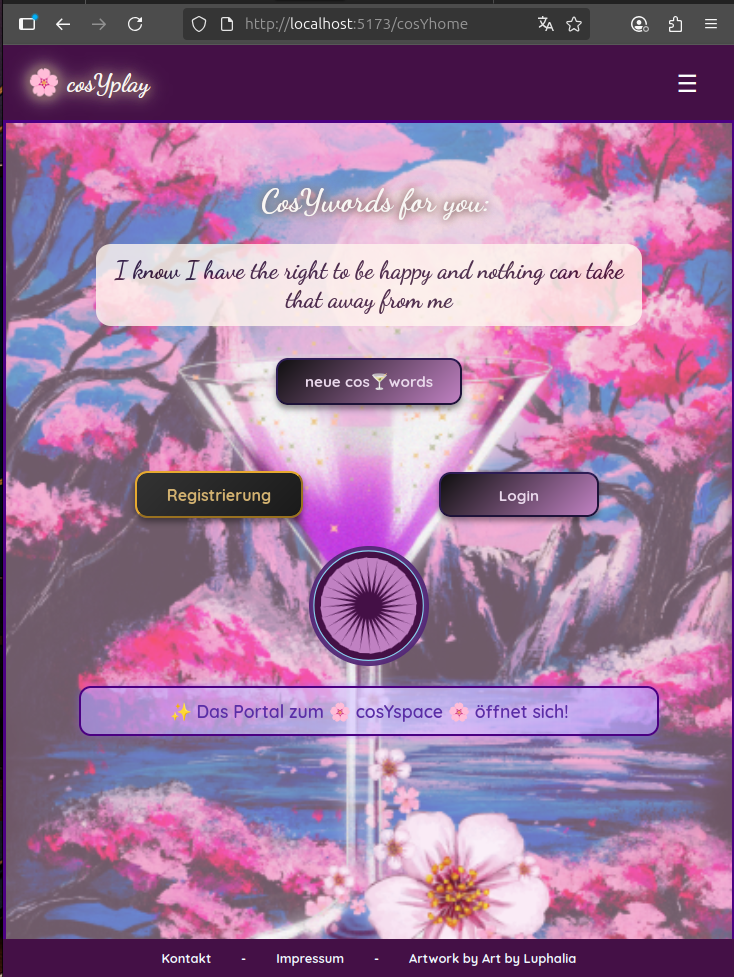
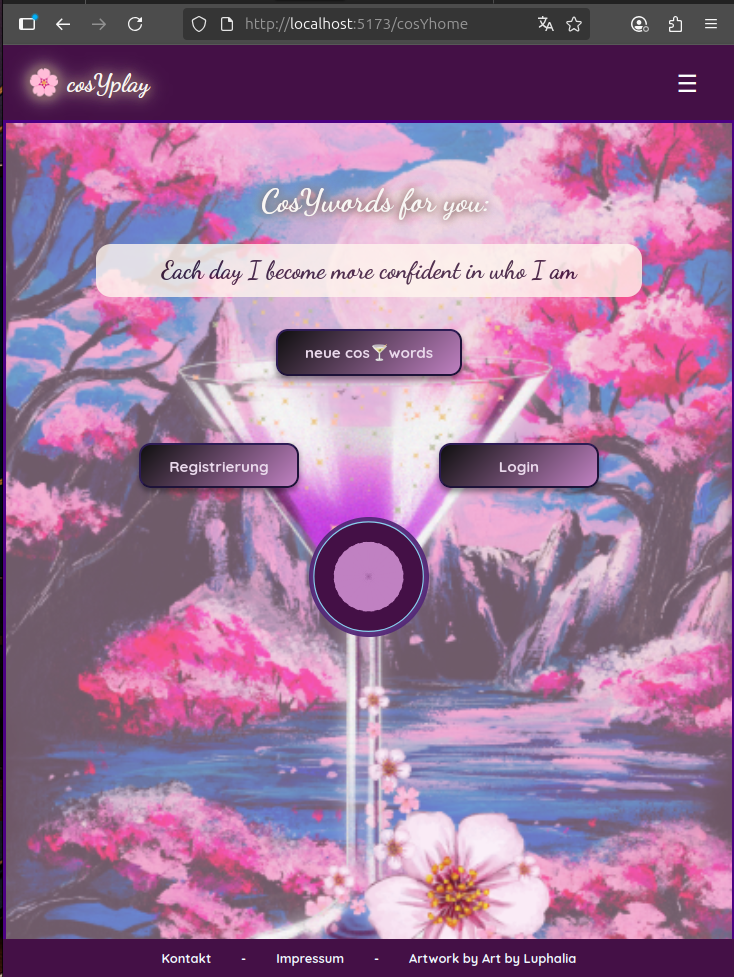
neue Bilder & deployments

Changed region(s): [[0.1199, 0.2456, 0.8992, 0.5527], [0.0899, 0.522, 0.8992, 0.7677]]

diff --git a/portfolio.md b/portfolio.md
@@ -3,6 +3,11 @@
 <p align="left">← <a href="./README.md">Back to main README</a></p>
 
 ---
+<img src="assets/Elegantes Home Office mit Goldakzenten.png" alt="ML Dev Lab Home Office">
+
+### 🪄 A glimpse into the Digital Alchemist's Lab; see what's brewing ✨
+
+---
 
 ### 🆕 **cosYplay 🌸**
 #### Fullstack monolithic SPA with micro-apps
@@ -29,25 +34,25 @@
   </thead>
   <tbody>
     <tr>
-      <td>
-        <img 
-          src="assets/cosYhome.png" 
-          width="400" 
-          alt="cosYhome Screenshot"
-        >
-      </td>
-      <td>
-        <img 
+<td>
+  <img 
+    src="assets/cosYhome.png" 
+    alt="cosYhome Screenshot"
+    style="width: 400px; height: auto; box-sizing: content-box; border: 4px solid indigo; border-radius: 8px;"
+  >
+</td>
+    <td>
+      <img 
           src="assets/cosYspace.png" 
-          width="400" 
-          alt="cosYspace Screenshot"
+            alt="cosYspace Screenshot"
+            style="width: 400px; height: auto; object-fit: cover; border-radius: 8px;"
         >
         </td>
     </tr>
   </tbody>
 </table>
 <hr>
-<details open>
+<details>
 <summary>2 social apps - cosYchat & cosYpost</summary>
 <br>
 
@@ -63,14 +68,14 @@
       <td>
         <img 
           src="assets/cosYchat.png" 
-          width="400" 
+          style="width: 400px; height: auto; object-fit: cover; border-radius: 8px;"          
           alt="cosYchat Screenshot"
         >
       </td>
       <td>
         <img 
           src="assets/cosYpost.png" 
-          width="400" 
+          style="width: 400px; height: auto; object-fit: cover; border-radius: 8px;"          
           alt="cosYpost Screenshot"
         >
         </td>
@@ -129,30 +134,30 @@ These projects include both **frontend** & **backend** logic; involving authenti
 
 ### 🗃 **File Upload Systems**
 
-<details>
-<summary>📂 BewerbungsArchiv v4 + v3 – File Upload System (<em>Backend‑first</em>)</summary>
+<details open>
+<summary>📂 BewerbungsArchiv – File Upload System (<em>Backend‑first</em>)</summary>
 <br>
 
 <table>
   <thead>
     <tr>
-      <th>BewerbungsArchiv v4</th>
-      <th>BewerbungsArchiv v3</th>
+      <th>BewerbungsArchiv (elaborated version)</th>
+      <th>BewerbungsArchiv (basic version)</th>
     </tr>
   </thead>
   <tbody>
     <tr>
       <td>
-        <img src="v4.png" alt="cruiseship" width="400"><br>
-        <strong>GitHub:</strong> <a href="https://github.com/Marga-Lensen/BewerbungsMgmt-fileUpload?tab=readme-ov-file">BewerbungsMgmt-fileUpload</a><br>
-        <strong>Live:</strong> Deployment coming soon<br>
+        <strong>GitHub:</strong> <a href="https://github.com/Marga-Lensen/Bewerbungsarchiv">Bewerbungsarchiv</a><br>
+        <strong>Live:</strong> <a href="https://bewerbungsarchiv.vercel.app/upload">Bewerbungsarchiv.vercel.app</a><br>
         <strong>Backend:</strong> Backend ready – waiting for deployment
+        <img src="assets/BewerbArchiv-elab.png" alt="cruiseship" style="width: 400px; height: auto; object-fit: cover; border: 4px solid purple; border-radius: 8px;" ><br>
       </td>
       <td>
-        <img src="MVP-pirates.png" alt="pirates" width="400"><br>
-        <em>(Placeholder: Repo & Screenshot ergänzen)</em><br>
-        <strong>Live:</strong> Deployment coming soon<br>
-        <strong>Backend:</strong> Backend ready – waiting for deployment
+        <strong>GitHub:</strong> <a href="https://github.com/Marga-Lensen/BewerbungsMgmt-fileUpload?tab=readme-ov-file">BewerbungsArchiv fileUpload</a><br>
+        <!-- <strong>Live:</strong> Deployment coming soon<br>
+        <strong>Backend:</strong> Backend ready – waiting for deployment -->
+        <img src="assets/BewerbArchiv-basic.png" width="400" alt="Collab Backend Screenshot"><br>
       </td>
     </tr>
   </tbody>
@@ -161,37 +166,6 @@ These projects include both **frontend** & **backend** logic; involving authenti
 <p align="right"><a href="#top">↑ Back to top</a></p>
 </details>
 
-<details>
-<summary>📂 BewerbungsArchiv v2 + v1</summary>
-<br>
-
-<table>
-  <thead>
-    <tr>
-      <th>BewerbungsArchiv v2</th>
-      <th>BewerbungsArchiv v1</th>
-    </tr>
-  </thead>
-  <tbody>
-    <tr>
-      <td>
-        <img src="onepager-fileUpload.png" alt="collab-fileUpload" width="400"><br>
-        <em>(Placeholder: Repo & Screenshot ergänzen)</em><br>
-        <strong>Live:</strong> Deployment coming soon<br>
-        <strong>Backend:</strong> Backend ready – waiting for deployment
-      </td>
-      <td>
-        <img src="assets/image-3.png" width="400" alt="Collab Backend Screenshot"><br>
-        <strong>GitHub:</strong> <a href="https://github.com/Marga-Lensen/backend-collab-project">backend-collab-project</a><br>
-        <strong>Live:</strong> Deployment coming soon<br>
-        <strong>Backend:</strong> Backend ready – waiting for deployment
-      </td>
-    </tr>
-  </tbody>
-</table>
-
-<p align="right"><a href="#top">↑ Back to top</a></p>
-</details>
 
 ---
 
